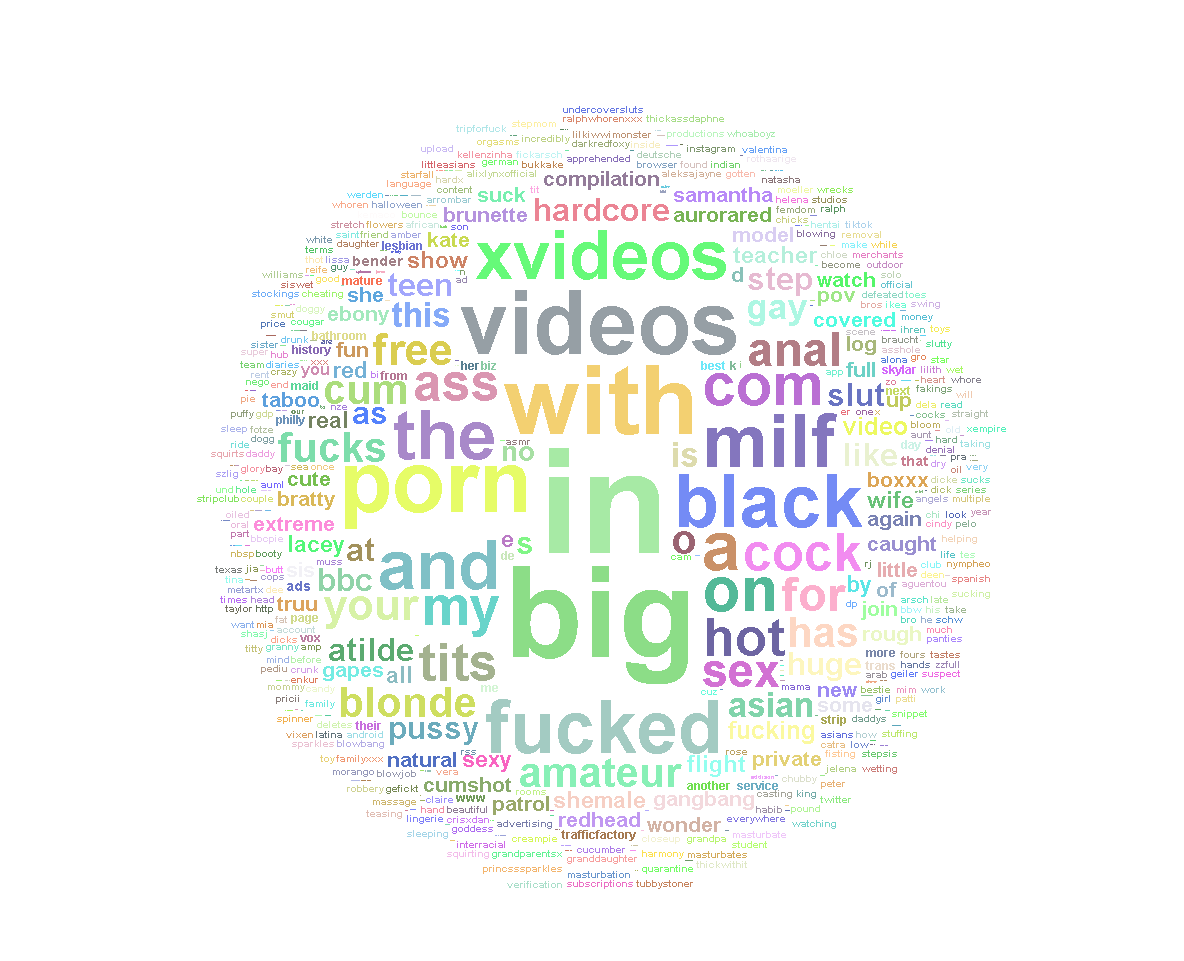
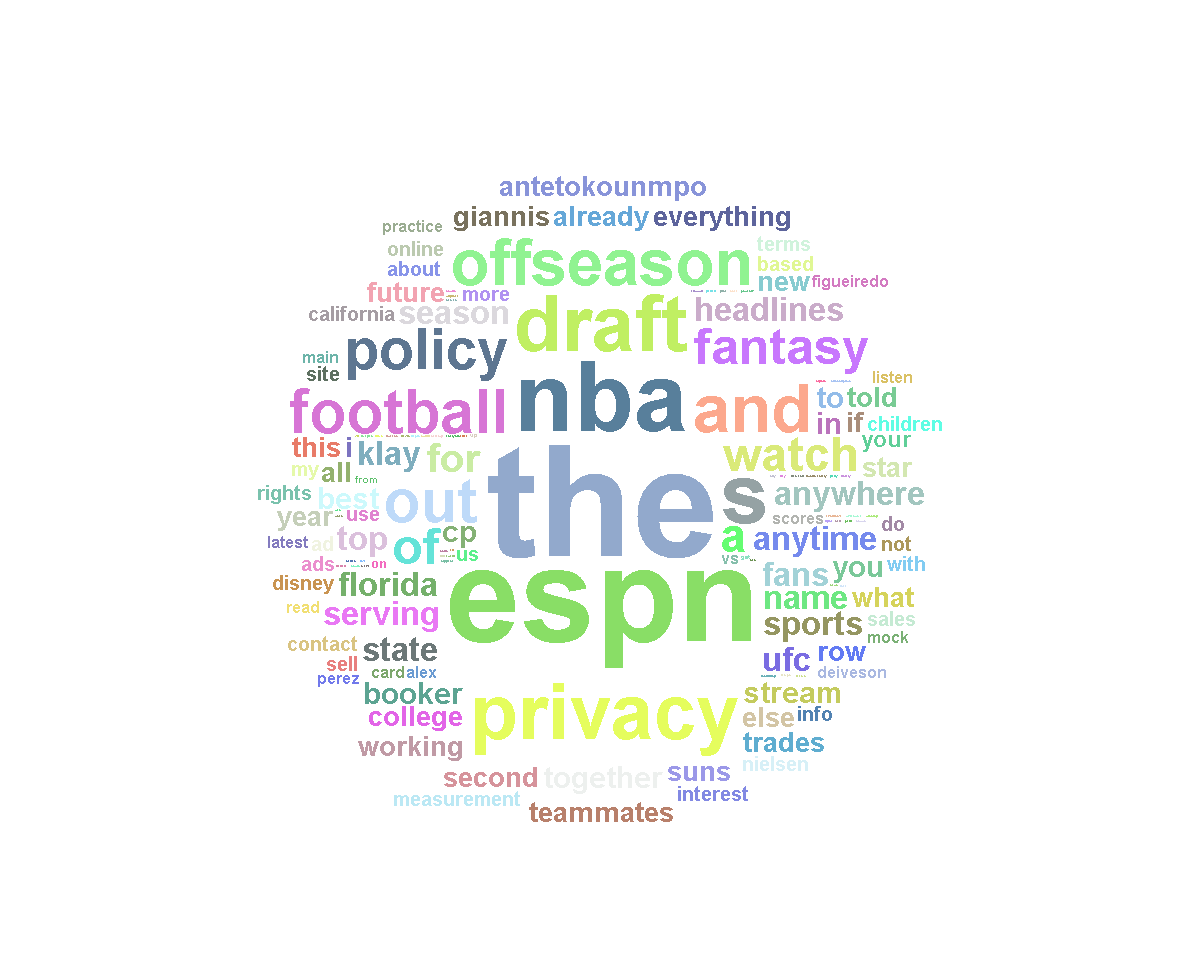
dab

Changed region(s): [[0.1875, 0.0937, 0.8438, 0.9365]]

diff --git a/Tag-Cloud-Project/src/Main.java b/Tag-Cloud-Project/src/Main.java
@@ -55,17 +55,18 @@ public class Main extends JFrame {
 		/*Scanner kb = new Scanner(System.in);
 		System.out.println("What website would you like to make a tag cloud out of?");
 		String url = kb.nextLine();*/
-		//String url = "https://www.espn.com/";
-		String url = "https://www.xvideos.com/";
+		String url = "https://www.espn.com/";
+		//String url = "https://www.xvideos.com/";
+		//String url = "https://genshin.cc/";
 		Scraper scr = new Scraper(url);
 		String s = scr.getWebsite();
 		//System.out.println(s);
 		site = new Data(s);	
 		
 		Map<String,Integer> tester = new TreeMap<>();
-		tester.put("my", 10);
-		tester.put("a", 50);
-		tester.put("use", 6);
+		tester.put("fsadfsaf", 10);
+		tester.put("fsdafsffsadf", 10);
+		tester.put("fdsafsagsag", 10);
 		disp = new Display(site.getMax(),site.getCloud());
 		//disp = new Display(site.getMax(),tester);
 		
